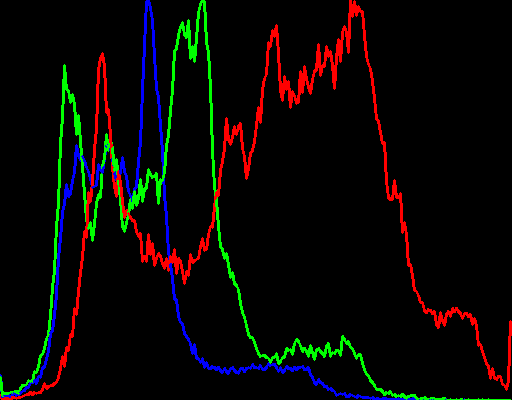
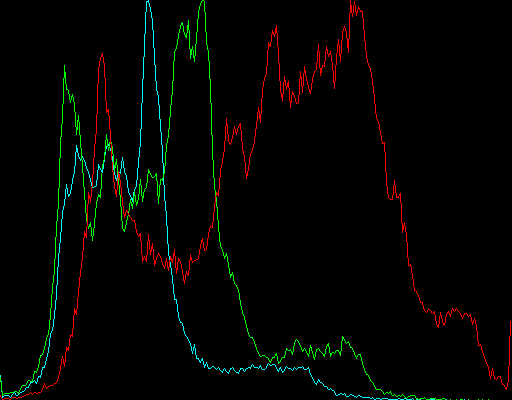
modulation

diff --git a/src/com/vision/process/CalcHist.java b/src/com/vision/process/CalcHist.java
@@ -14,7 +14,135 @@ import org.opencv.imgcodecs.Imgcodecs;
 import org.opencv.imgproc.Imgproc;
 
 public class CalcHist {
-
+	
+	public void start(String filename) {
+		Mat src = Imgcodecs.imread(filename);
+		if (src.empty()) {
+			System.err.println("Cannot read image: " + filename);
+			System.exit(0);
+		}
+		
+		int histSize = 256;
+		float[] range = { 0, 256 }; // the upper boundary is exclusive
+		boolean accumulate = false;
+		int histW = 512, histH = 400;
+		Mat histImage = new Mat(histH, histW, CvType.CV_8UC3, new Scalar(0, 0, 0));
+		
+		MatGroup matGroup = new MatGroup();
+		calcHist(histSize, src, matGroup, range, accumulate);
+		normalize(histSize, matGroup, histImage, histW, histH);
+		drawsHistLines(histSize, matGroup, histImage, histW, histH);
+		
+		Imgcodecs.imwrite(getModifiyFileName(filename, "hist"), histImage);
+		
+		HighGui.imshow("Source image", src);
+		HighGui.imshow("calcHist Demo", histImage);
+		HighGui.waitKey(0);
+		System.exit(0);
+		
+	}
+	
+	
+	public void calcHist(int histSize, Mat src, MatGroup matGroup, float[] range, boolean accumulate) {
+		List<Mat> bgrPlanes = new ArrayList<>();
+		Core.split(src, bgrPlanes);
+		MatOfFloat histRange = new MatOfFloat(range);
+		Imgproc.calcHist(bgrPlanes, new MatOfInt(0), new Mat(), matGroup.getbHist(), new MatOfInt(histSize), histRange, accumulate);
+		Imgproc.calcHist(bgrPlanes, new MatOfInt(1), new Mat(), matGroup.getgHist(), new MatOfInt(histSize), histRange, accumulate);
+		Imgproc.calcHist(bgrPlanes, new MatOfInt(2), new Mat(), matGroup.getrHist(), new MatOfInt(histSize), histRange, accumulate);
+	}
+	
+	public void normalize(int histSize, MatGroup matGroup, Mat histImage, int histW, int  histH) {
+		Mat bHist = matGroup.getbHist();
+		Mat gHist = matGroup.getgHist();
+		Mat rHist = matGroup.getrHist();
+		
+		Core.normalize(bHist, bHist, 0, histImage.rows(), Core.NORM_MINMAX);
+		Core.normalize(gHist, gHist, 0, histImage.rows(), Core.NORM_MINMAX);
+		Core.normalize(rHist, rHist, 0, histImage.rows(), Core.NORM_MINMAX);
+		float[] bHistData = new float[(int) (bHist.total() * bHist.channels())];
+		bHist.get(0, 0, bHistData);
+		float[] gHistData = new float[(int) (gHist.total() * gHist.channels())];
+		gHist.get(0, 0, gHistData);
+		float[] rHistData = new float[(int) (rHist.total() * rHist.channels())];
+		rHist.get(0, 0, rHistData);
+		
+		matGroup.setbHistData(bHistData);
+		matGroup.setgHistData(gHistData);
+		matGroup.setrHistData(rHistData);
+	}
+	
+	public void drawsHistLines(int histSize, MatGroup matGroup, Mat histImage, int histW, int histH) {
+		float[] bHistData = matGroup.getbHistData();
+		float[] gHistData = matGroup.getgHistData();
+		float[] rHistData = matGroup.getrHistData();
+		
+		int binW = (int) Math.round((double) histW / histSize);
+		
+		for (int i = 1; i < histSize; i++) {
+			Imgproc.line(histImage, new Point(binW * (i - 1), histH - Math.round(bHistData[i - 1])),
+					new Point(binW * (i), histH - Math.round(bHistData[i])), new Scalar(255, 0, 0), 1);
+			Imgproc.line(histImage, new Point(binW * (i - 1), histH - Math.round(gHistData[i - 1])),
+					new Point(binW * (i), histH - Math.round(gHistData[i])), new Scalar(0, 255, 0), 1);
+			Imgproc.line(histImage, new Point(binW * (i - 1), histH - Math.round(rHistData[i - 1])),
+					new Point(binW * (i), histH - Math.round(rHistData[i])), new Scalar(0, 0, 255), 1);
+		}
+	}
+	
+	public static class MatGroup{
+		private Mat bHist = new Mat();
+		private Mat gHist = new Mat();
+		private Mat rHist = new Mat();
+		
+		private float[] bHistData;
+		private float[] gHistData;
+		private float[] rHistData;
+		
+		public Mat getbHist() {
+			return bHist;
+		}
+		public void setbHist(Mat bHist) {
+			this.bHist = bHist;
+		}
+		public Mat getgHist() {
+			return gHist;
+		}
+		public void setgHist(Mat gHist) {
+			this.gHist = gHist;
+		}
+		public Mat getrHist() {
+			return rHist;
+		}
+		public void setrHist(Mat rHist) {
+			this.rHist = rHist;
+		}
+		public float[] getbHistData() {
+			return bHistData;
+		}
+		public void setbHistData(float[] bHistData) {
+			this.bHistData = bHistData;
+		}
+		public float[] getgHistData() {
+			return gHistData;
+		}
+		public void setgHistData(float[] gHistData) {
+			this.gHistData = gHistData;
+		}
+		public float[] getrHistData() {
+			return rHistData;
+		}
+		public void setrHistData(float[] rHistData) {
+			this.rHistData = rHistData;
+		}
+	}
+	
+	private static String getModifiyFileName(final String filePath, final String addName) {
+		Integer extendIndex = filePath.lastIndexOf(".");
+		StringBuilder builder = new StringBuilder( filePath.substring(0, extendIndex));
+		builder.append("-").append(addName).append(".png");
+		return builder.toString();
+	}
+	
 	public void run(String filename) {
 		Mat src = Imgcodecs.imread(filename);
 		if (src.empty()) {
@@ -31,6 +159,8 @@ public class CalcHist {
 		Imgproc.calcHist(bgrPlanes, new MatOfInt(0), new Mat(), bHist, new MatOfInt(histSize), histRange, accumulate);
 		Imgproc.calcHist(bgrPlanes, new MatOfInt(1), new Mat(), gHist, new MatOfInt(histSize), histRange, accumulate);
 		Imgproc.calcHist(bgrPlanes, new MatOfInt(2), new Mat(), rHist, new MatOfInt(histSize), histRange, accumulate);
+		
+		
 		int histW = 512, histH = 400;
 		int binW = (int) Math.round((double) histW / histSize);
 		Mat histImage = new Mat(histH, histW, CvType.CV_8UC3, new Scalar(0, 0, 0));
@@ -43,13 +173,15 @@ public class CalcHist {
 		gHist.get(0, 0, gHistData);
 		float[] rHistData = new float[(int) (rHist.total() * rHist.channels())];
 		rHist.get(0, 0, rHistData);
+		
+		
 		for (int i = 1; i < histSize; i++) {
 			Imgproc.line(histImage, new Point(binW * (i - 1), histH - Math.round(bHistData[i - 1])),
-					new Point(binW * (i), histH - Math.round(bHistData[i])), new Scalar(255, 0, 0), 2);
+					new Point(binW * (i), histH - Math.round(bHistData[i])), new Scalar(255, 0, 0), 1);
 			Imgproc.line(histImage, new Point(binW * (i - 1), histH - Math.round(gHistData[i - 1])),
-					new Point(binW * (i), histH - Math.round(gHistData[i])), new Scalar(0, 255, 0), 2);
+					new Point(binW * (i), histH - Math.round(gHistData[i])), new Scalar(0, 255, 0), 1);
 			Imgproc.line(histImage, new Point(binW * (i - 1), histH - Math.round(rHistData[i - 1])),
-					new Point(binW * (i), histH - Math.round(rHistData[i])), new Scalar(0, 0, 255), 2);
+					new Point(binW * (i), histH - Math.round(rHistData[i])), new Scalar(0, 0, 255), 1);
 		}
 		
 		Imgcodecs.imwrite(getModifiyFileName(filename, "hist"), histImage);
@@ -58,12 +190,5 @@ public class CalcHist {
 		HighGui.imshow("calcHist Demo", histImage);
 		HighGui.waitKey(0);
 		System.exit(0);
-	}
-	
-	private static String getModifiyFileName(final String filePath, final String addName) {
-		Integer extendIndex = filePath.lastIndexOf(".");
-		StringBuilder builder = new StringBuilder( filePath.substring(0, extendIndex));
-		builder.append("-").append(addName).append(".png");
-		return builder.toString();
 	}
 }

diff --git a/src/com/vision/main/CalcHistDemo.java b/src/com/vision/main/CalcHistDemo.java
@@ -11,7 +11,7 @@ public class CalcHistDemo {
 		String filename = args.length > 0 ? args[0] : getResourceFilePath("lena.jpg");
 		
 		
-		new CalcHist().run(filename);
+		new CalcHist().start(filename);
 	}
 	
 	public static String getResourceFilePath(final String fileName) {		
